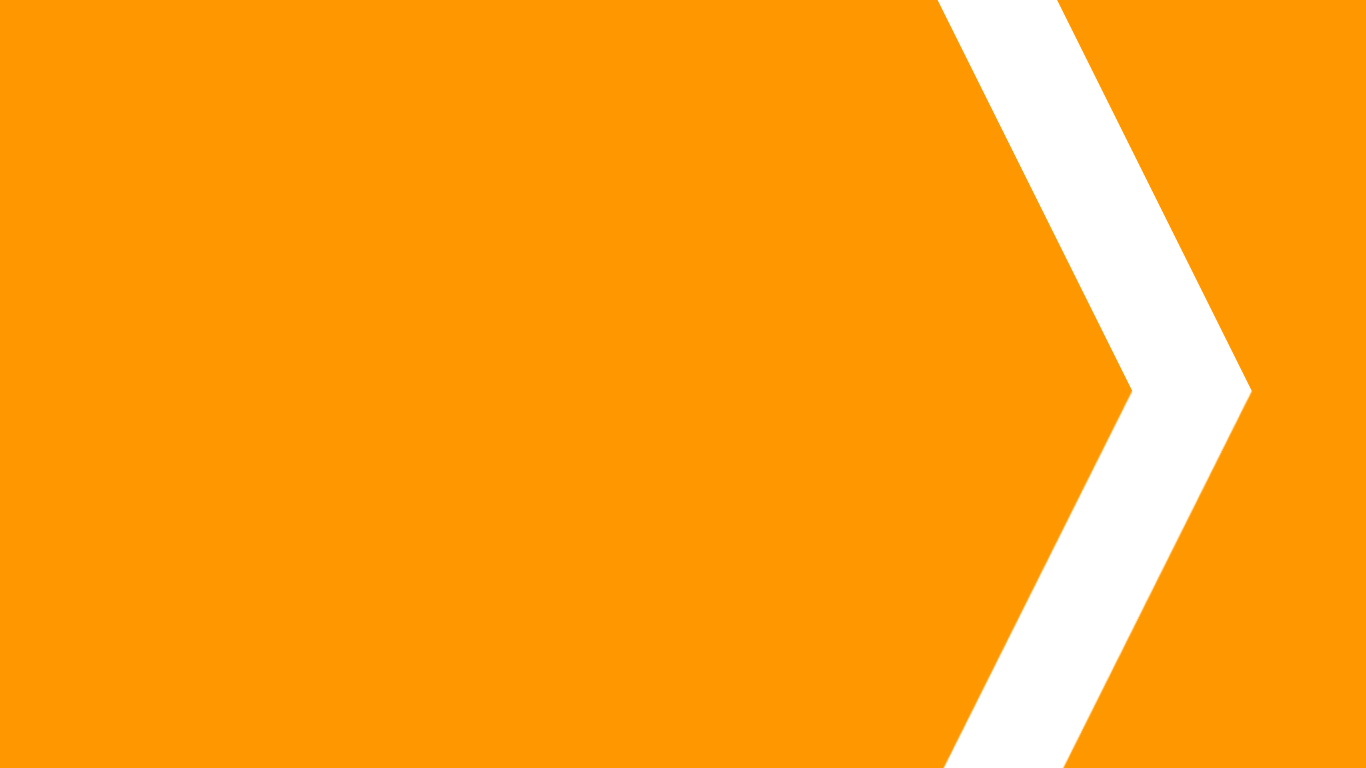
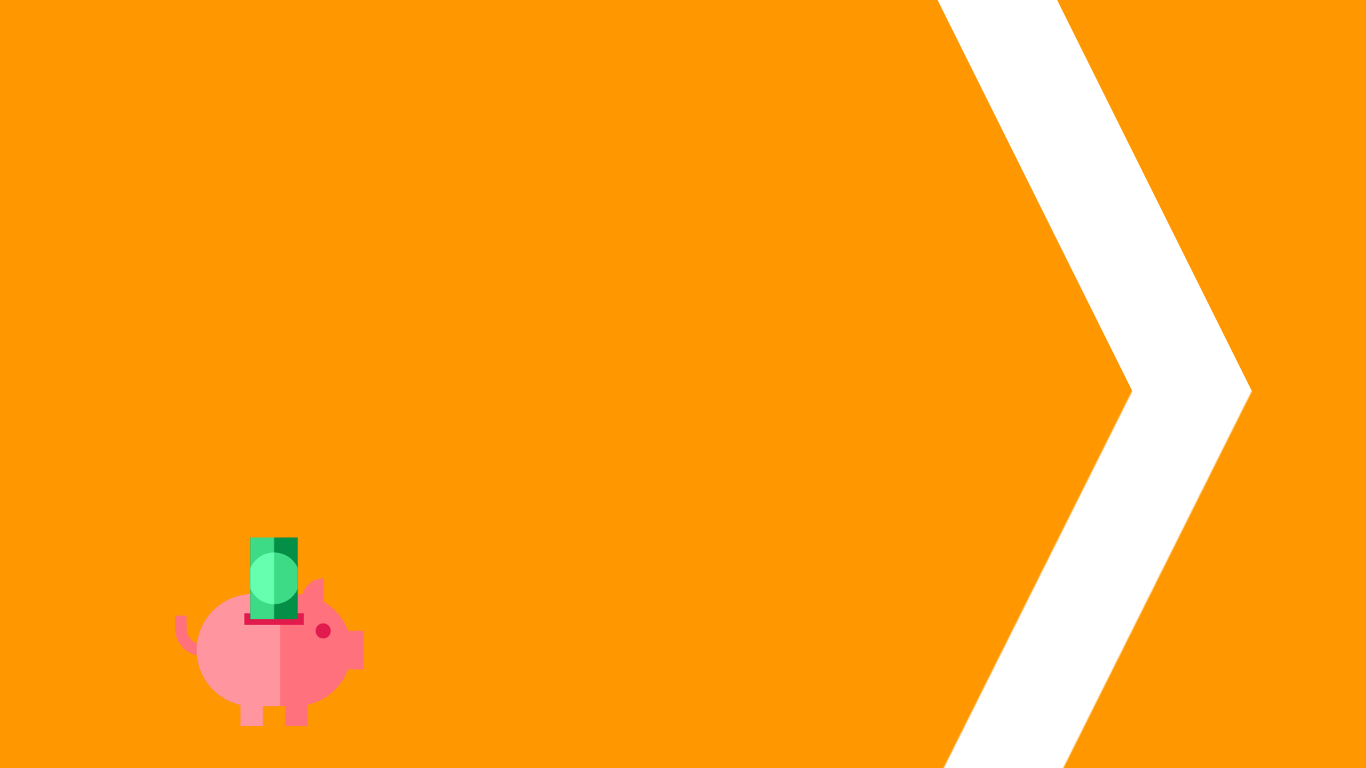
Create transaction page

Changed region(s): [[0.123, 0.6875, 0.2767, 0.9688]]

diff --git a/views/transactions.html b/views/transactions.html
@@ -9,7 +9,6 @@
 
         <link rel="apple-touch-icon" href="apple-touch-icon.png">
         <!-- Place favicon.ico in the root directory -->
-
         
         <link href="https://fonts.googleapis.com/css?family=Roboto:100,100i,300,300i,400,400i,500,500i,700" rel="stylesheet">
         <link rel="stylesheet" href="/css/normalize.css">
@@ -73,35 +72,22 @@
             </div>
         </div>
 
-        <div class="main">
-        <!--<div class="main-container">
-            
-        </div>-->
-        <div class="top-wrapper">
-            <div class="price-tick-wrapper">
-                <h2 id="price-ticker">$0.00</h2>
-                <h5 id="sub-price-ticker">+$0.00</h5>
-            </div>
-        </div>
+        <div class="main container transaction-wrapper">
+            <div class="col-md-6">
+                <h2>Spend Summary</h2>
 
-        <div class="svg-wrapper">
-            <div id="calendar"></div>
-            <svg id="line-graph"></svg>
-            <svg id="bar-svg"></svg>
-        </div>
+                <p class="balance-lead"><em>Month-to-date spending for January 2017</em></p>
+                <h3 class="balance">$<span id="user-balance">0.00</span></h3>
+            </div>
+
+            <div class="col-md-4 col-md-offset-2">
+                <h3>Top Spending Categories</h3>
+            </div>
         </div>
 
         <script src="https://code.jquery.com/jquery-1.12.0.min.js"></script>
         <script>window.jQuery || document.write('<script src="js/vendor/jquery-1.12.0.min.js"><\/script>')</script>
         <script src="/js/plugins.js"></script>
         <script src="/js/js.cookie.js"></script>
-        <script src="/js/demo.js"></script>
-        <script src="https://d3js.org/d3.v4.min.js"></script>
-        <script src="https://cdn.jsdelivr.net/lodash/4.17.4/lodash.min.js"></script>
-        <script src="https://momentjs.com/downloads/moment.js"></script>
-        <!--<script src="https://cdn.socket.io/socket.io-1.4.5.js"></script>-->
-        <script src="/js/d3/calendar.js"></script>
-        <script src="/js/d3/line.js"></script>
-        <script src="/js/d3/bars.js"></script>
     </body>
 </html>

diff --git a/views/charities.html b/views/charities.html
@@ -3,7 +3,7 @@
   <head>
     <meta charset="utf-8">
     <meta http-equiv="x-ua-compatible" content="ie=edge">
-    <title>Moves</title>
+    <title>Piggy Bank</title>
     <meta name="description" content="">
     <meta name="viewport" content="width=device-width, initial-scale=1">
 
@@ -35,13 +35,14 @@
             <span class="icon-bar"></span>
             <span class="icon-bar"></span>
           </button>
-          <a class="navbar-brand" href="/dashboard">Moves</a>
+          <a class="navbar-brand" href="/dashboard">Piggy Bank</a>
         </div>
 
         <!-- Collect the nav links, forms, and other content for toggling -->
         <div class="collapse navbar-collapse" id="bs-example-navbar-collapse-1">
           <ul class="nav navbar-nav navbar-left">
             <li><a href="/charities">Charities</a></li>
+            <li><a href="/transactions">Transactions</a></li>
           </ul>
           <ul class="nav navbar-nav navbar-right">
             <li><a href="#">Logged in as <span class="email">rbhang@gmail.com</span></a></li>

diff --git a/views/landing.html b/views/landing.html
@@ -3,7 +3,7 @@
     <head>
         <meta charset="utf-8">
         <meta http-equiv="x-ua-compatible" content="ie=edge">
-        <title>Moves</title>
+        <title>Piggy Bank</title>
         <meta name="description" content="">
         <meta name="viewport" content="width=device-width, initial-scale=1">
 
@@ -26,7 +26,7 @@
         <![endif]-->
 
         <div class="center-frame">
-            <h1 id="title">Moves</h1>
+            <h1 id="title">Piggy Bank</h1>
             <div id="signup-btn" class="home-btn"><a>SIGN UP</a></div>
             <div id="login-btn" class="home-btn"><a>LOG IN</a></div>
             <div class="overlay hidden"></div>

diff --git a/public/css/vis.css b/public/css/vis.css
@@ -55,6 +55,7 @@ html, body {
 }
 
 .navbar-default .navbar-brand {
+	font-weight: 700;
 	font-size: 15px;
 	color: white;
 }
@@ -235,4 +236,18 @@ html, body {
 	width: 100%;
 	color: white;
 	background: rgba(0,0,0,0.6);
+}
+
+.transaction-wrapper {
+	margin-top: 50px;
+	margin-left: 50px;
+}
+
+.balance-lead {
+	margin-top: 30px;
+	margin-bottom: 5px;
+}
+
+.balance {
+	margin-top: 0px;
 }

diff --git a/routes/index.js b/routes/index.js
@@ -15,4 +15,8 @@ router.get('/charities', function(req, res, next) {
   res.sendFile('views/charities.html', { root: path.join(__dirname, '..')});
 });
 
+router.get('/transactions', function(req, res, next) {
+  res.sendFile('views/transactions.html', { root: path.join(__dirname, '..')});
+});
+
 module.exports = router;
